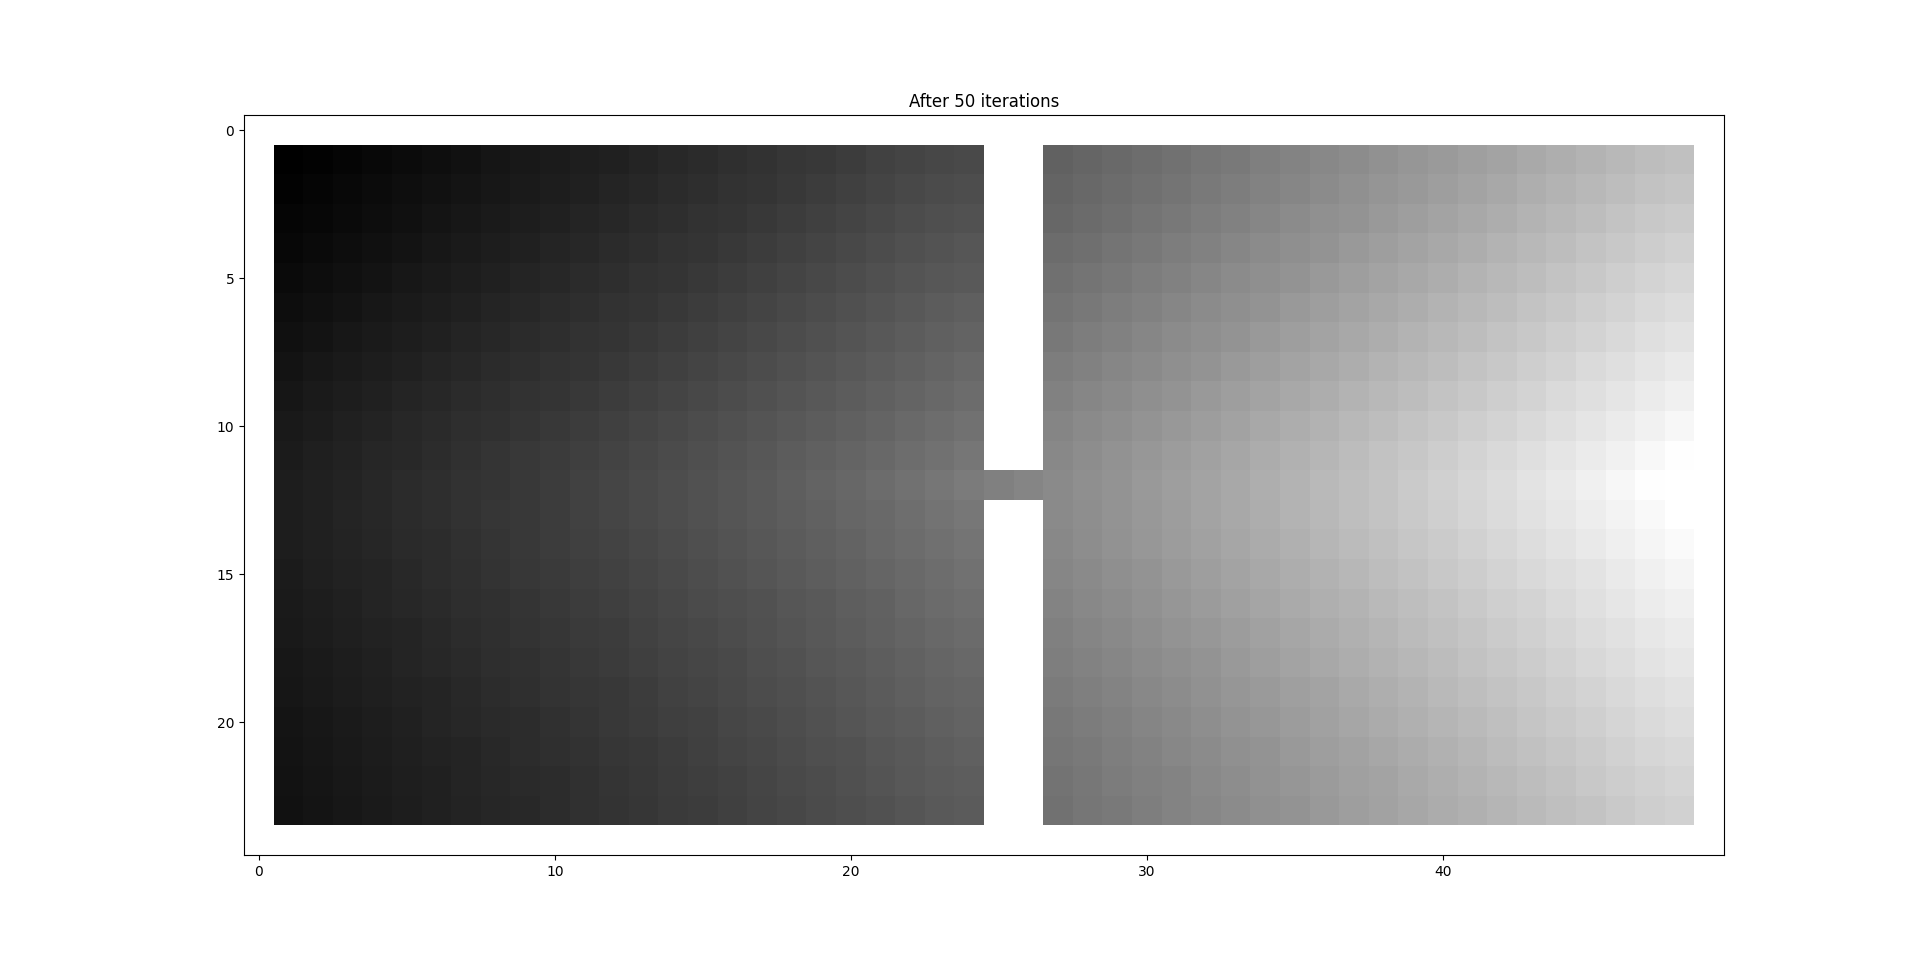
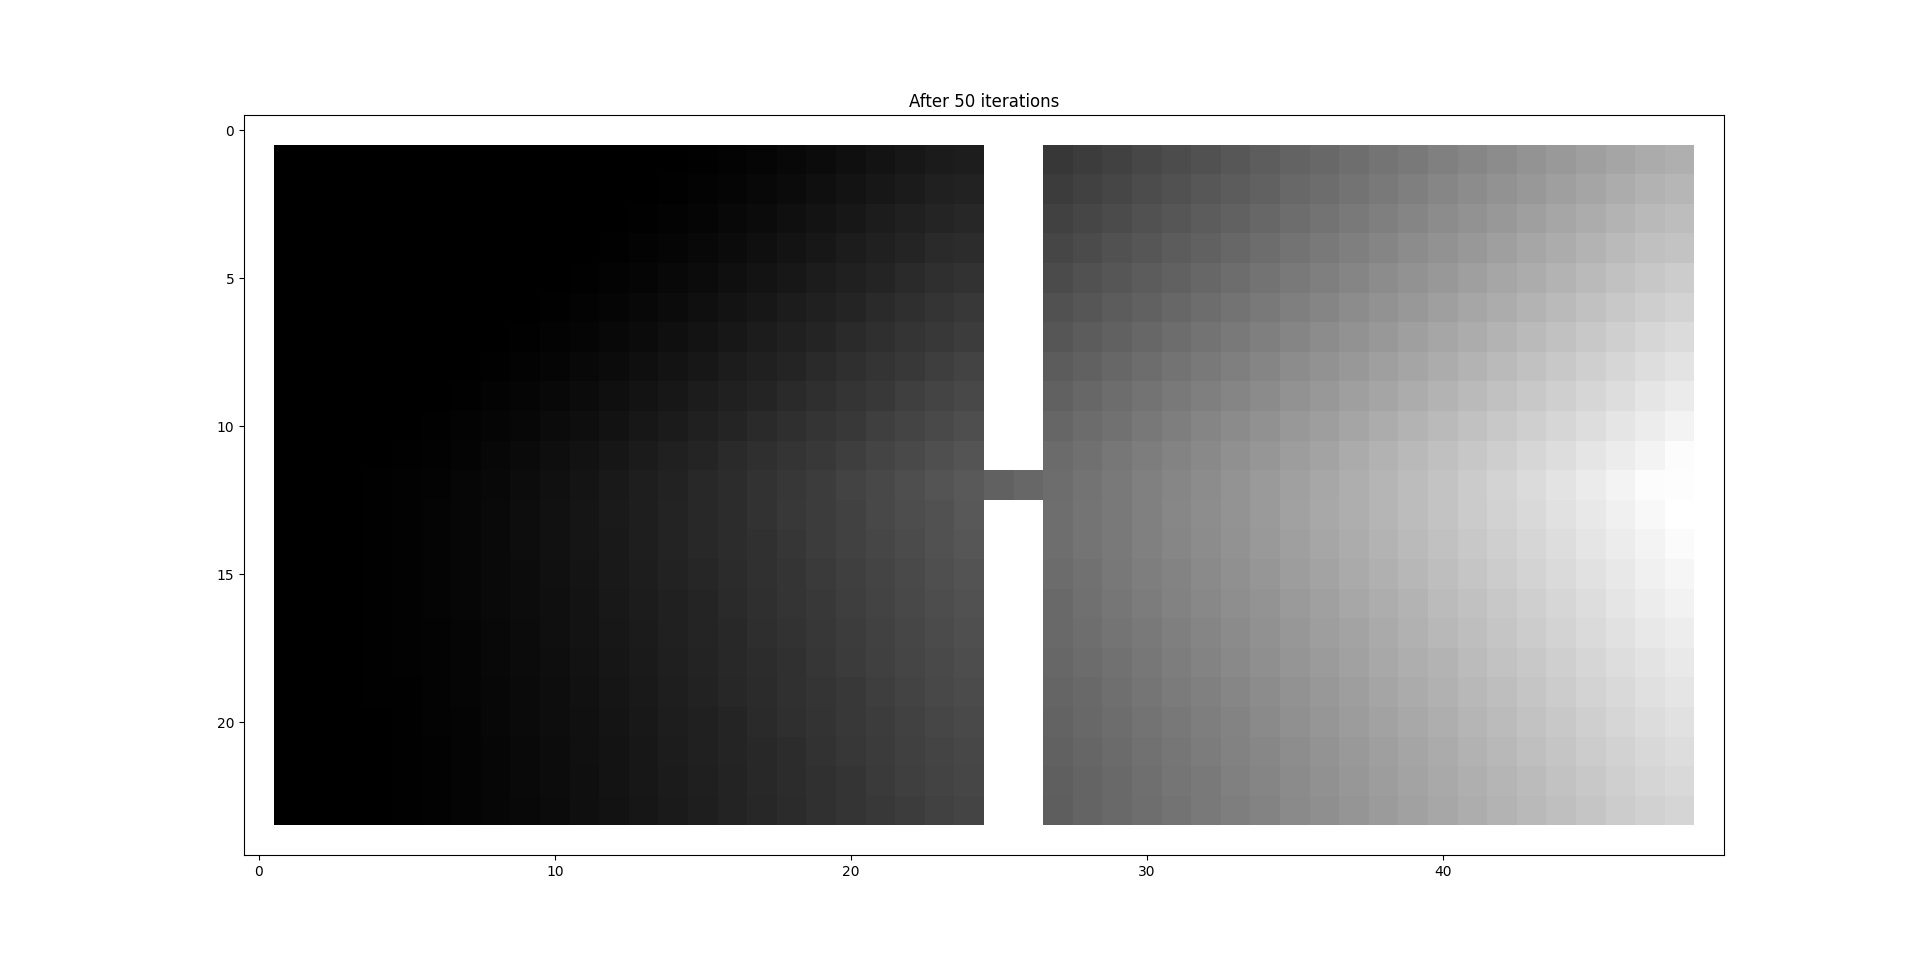
q1 done

Changed region(s): [[0.125, 0.1249, 0.7812, 0.8741]]

diff --git a/Q2_Q_Learning.py b/Q2_Q_Learning.py
@@ -4,10 +4,11 @@ from plotpolicy import plot_policy, plot_policy2
 from simulatepolicy import plot_simulation, simulate_policy
 import argparse
 import matplotlib.pyplot as plt
+import os
+
 from tqdm import tqdm
 
 actions = {0:"north", 1:"south", 2:"east", 3:"west"}
-
 
 
 def Environment_interaction_next_state_reward(s_t, action, goal_state):
@@ -108,16 +109,26 @@ parser.add_argument('-e', '--episodes', help='no of episodes to run', type=int, 
 parser.add_argument('--eps', help='exploring probability', type=float, default=0.05)
 parser.add_argument('-a', '--alpha', help='learning rate', type=float, default=0.25)
 parser.add_argument('-g', '--gamma', help='discount factor', type=float, default=0.99)
+parser.add_argument('-s', '--savefigs', help='save figures', action='store_true')
+parser.add_argument('--silent', help='dont show digures', action='store_true')
+parser.add_argument('-o', '--outdir', help='output directory', default='./pics/q2')
 
 args = parser.parse_args()
 eps = args.eps
 episodes = args.episodes
 alpha = args.alpha
 gamma = args.gamma
+savefig = args.savefigs
+outdir = os.path.abspath(args.outdir)
+plot = not args.silent
+
+print(f'savefigs = {savefig}, outdir={outdir}, plotfigs={plot}')
 
 q_value, reward_history = Q_learning_algorithm(eps, alpha, gamma, (48,12), episodes)
 Policy3 = np.zeros((50,25))
 Value = np.zeros((50, 25))
+
+
 for ki in range(1,49):
     for kj in range(1,24):
         if ki in [25, 26] and kj in range(1, 12) or ki in [25, 26] and kj in range(13, 24):
@@ -126,15 +137,25 @@ for ki in range(1,49):
             Policy3[ki, kj] = np.argmax(np.array([q_value[(ki,kj)][0], q_value[(ki,kj)][1], q_value[(ki,kj)][2], q_value[(ki,kj)][3]]))
             Value[ki, kj] = max(q_value[(ki, kj)][0], q_value[(ki, kj)][1], q_value[(ki, kj)][2], q_value[(ki, kj)][3])
 
-plt.imshow(Value.T)
+plt.imshow(Value.T, cmap='gray')
 plt.title("Value function after {} episodes. [gamma = {}, eps={}, alpha={}]".format(episodes, gamma, eps, alpha))
-plt.show()
+if savefig:
+    plt.savefig(os.path.join(outdir, f"Value_{episodes}_{gamma}_{eps}_{alpha}.png"), dpi=300)
 
-plot_policy2(Policy3.T, Value.T, grid=False, title="Policy plot after {} episodes. [gamma = {}, eps={}, alpha={}]".format(episodes, gamma, eps, alpha))
+if plot:
+    plt.show()
 
+plot_policy2(Policy3.T, Value.T, grid=False, title="Policy plot after {} episodes. [gamma = {}, eps={}, alpha={}]".format(episodes, gamma, eps, alpha), outdir=os.path.join(outdir, f"Policy_{episodes}_{gamma}_{eps}_{alpha}.png"), plot = plot)
+
+plt.cla()
+plt.clf()
 plt.plot(reward_history)
 plt.title("Reward History for {} episodes. [gamma = {}, eps={}, alpha={}]".format(episodes, gamma, eps, alpha))
-plt.show()
+plt.xlim([-100,4000])
+if savefig:
+    plt.savefig(os.path.join(outdir, f"Reward_{episodes}_{gamma}_{eps}_{alpha}.png"), dpi=300)
+if plot:
+    plt.show()
 
 states, actions, rewards = simulate_policy((1, 1), Policy3, iter=2000)
-plot_simulation(states, actions)
+plot_simulation(states, actions, outdir=os.path.join(outdir, f"Sim_{episodes}_{gamma}_{eps}_{alpha}.png"), plot=plot)

diff --git a/plotpolicy.py b/plotpolicy.py
@@ -1,6 +1,7 @@
 import numpy as np
 import matplotlib.pyplot as plt
 import matplotlib.patches as shapes
+import os
 
 actions = {0:"north", 1:"south", 2:"east", 3:"west"}
 orientation_dict = {"north":"down", "south":"up", "east":"right", "west":"left"}
@@ -54,12 +55,42 @@ def plot_policy(P, V, orientation_dict = orientation_dict, overlay=False):
 
     plt.show()
 
-def plot_policy2(P, V, orientation_dict = orientation_dict, grid=False, title='Policy Plot'):
+def plot_visited(v, goal_state=(48, 12), outdir=None, plot=True):
+    _, ax = plt.subplots()
+    v[goal_state] = 0
+    v /= np.max(v)
+    for y in range(25):
+        for x in range(50):
+            #color the walls
+            
+            if(x > 0 and x < 49 and y > 0 and y < 24 and not (x in [25,26] and (y in range(1,12) or y in range(13,24))) and not (x == goal_state[0] and y== goal_state[1]) ):
+                marker = shapes.Rectangle((x, y), width=1, height=1, color=f'{v[x, y]}')
+                ax.add_artist(marker)
+            else:
+                if(x == goal_state[0] and y == goal_state[1]):
+                    marker = shapes.Rectangle((x, y), width=1, height=1, color='red')
+                else:    
+                    marker = shapes.Rectangle((x, y), width=1, height=1, color='blue')
+                ax.add_artist(marker)
+
+    
+    ax.set_xticks(np.arange(0, 50, 1))
+    ax.set_yticks(np.arange(0, 25, 1))
+    ax.set_xlim([0,50])
+    ax.set_ylim([0,25])
+    #ax.grid(b=True, which='major')
+    ax.set_title('Visualization of states visited')
+    if outdir is not None:
+        plt.savefig(outdir, dpi=300)
+    if plot:
+        plt.show()
+
+def plot_policy2(P, V, orientation_dict = orientation_dict, grid=False, title='Policy Plot', outdir=None, plot=True):
     #P - policy, V - value function
     assert P.shape[0] == 25 and P.shape[1] == 50, "Improper input to the function"
     assert P.shape == V.shape, "Improper input to the function"
     _, ax = plt.subplots()
-    ax.imshow(V)
+    ax.imshow(V, cmap='gray')
     for y in range(25):
         for x in range(50):
             #color the walls
@@ -77,9 +108,14 @@ def plot_policy2(P, V, orientation_dict = orientation_dict, grid=False, title='P
     
     ax.set_xticks(np.arange(0, 50, 1))
     ax.set_yticks(np.arange(0, 25, 1))
+    ax.set_xlim([0,50])
+    ax.set_ylim([0,25])
+    
     if(grid):
         ax.grid(b=True, which='major')
     ax.set_title(title)
-
-    plt.show()
+    if outdir is not None:
+        plt.savefig(outdir, dpi=300)
+    if plot:
+        plt.show()
     

diff --git a/Q1_MDP_NEW.py b/Q1_MDP_NEW.py
@@ -1,7 +1,7 @@
 import numpy as np
 import math as mt
 import matplotlib.pyplot as plt 
-from plotpolicy import plot_policy
+from plotpolicy import plot_policy, plot_visited
 from mdputils import Next_state_and_reward
 from simulatepolicy import plot_simulation, simulate_policy
 actions = {0:"north", 1:"south", 2:"east", 3:"west"}
@@ -120,7 +120,7 @@ def Value_iteration(goal_state= (48,12), theta=0.1, gamma=0.1, iterations =10):
             break
         iter = iter + 1
         
-        V_history[iter] = V
+        V_history[iter] = V.copy()
         delta_history.append(delta)
 
         print("Iteration completed.")
@@ -171,14 +171,15 @@ for n in range(N_times):
     states, actions, rewards = simulate_policy((1,1), Policy2, 100)
     for s in states:
         n_visited[s[0], s[1]] += 1
-
+'''
 plt.imshow(n_visited.T, cmap='gray')
 plt.show()
 
 n_visited[48, 12] = 0
 plt.imshow(n_visited.T, cmap='gray')
 plt.show()
-
+'''
+plot_visited(n_visited)
 #now visualizing how max_norm changes over different values of gamma.
 fig, ax = plt.subplots(1, 2)
 Value_of_state, Policy2, V_history, delta_hist, c = Value_iteration((48,12), None, 0.99, 500)
@@ -189,39 +190,3 @@ ax[0].plot(delta_hist, 'b'); ax[1].plot(c, 'b')
 ax[0].set_title("Max_norm over different values of the discount factor: 0.99 and 0.01")
 ax[1].set_title("Changes in the policy over different iterations")
 plt.show()
-
-'''
-
-from PIL import Image
-Image_value = (255 * (Value_of_state - np.min(Value_of_state)) / np.ptp(Value_of_state)).astype(int)
-im = Image.fromarray(Image_value)
-resized_img = im.resize((400, 800))
-resized_img.show()
-resized_img .save('gfg_dummy_pic2.png')
-
-
-Policy2_image = np.zeros((48,23,3), dtype= np.uint8)
-for ki in range(1,49):
-    for kj in range(1,24):
-        if Policy2[ki,kj] == 0:
-            Policy2_image[ki-1, kj-1] = [255, 0,0]
-        elif Policy2[ki,kj] == 1:
-            Policy2_image[ki-1, kj-1] = [0,255, 0]
-        elif Policy2[ki, kj] == 2:
-            Policy2_image[ki - 1, kj - 1] = [0,0,255]
-        elif Policy2[ki,kj] == 0:
-            Policy2_image[ki-1, kj-1] = [255, 255,255]
-img2 = Image.fromarray(Policy2_image, 'RGB')
-resized_img2 = img2.resize((200, 400))
-resized_img2.show()
-resized_img2.save('Policy23.png')
-
-
-with np.printoptions(threshold=np.inf):
-    #print(Policy[1:49, 1:24])
-    print(Policy2[1:49, 1:24])
-
-    print(Value_of_state[1:49, 1:24])
-    print(Value_of_state[48,12])
-
-'''

diff --git a/simulatepolicy.py b/simulatepolicy.py
@@ -22,7 +22,9 @@ def simulate_policy(start_state, P, iter=200):
         x, y = next_state
     return states, actions, rewards
 
-def plot_simulation(states, actions, goal_state=(48, 12)):
+
+
+def plot_simulation(states, actions, goal_state=(48, 12), outdir=None, plot=True):
     _, ax = plt.subplots()
     
     for y in range(25):
@@ -54,9 +56,13 @@ def plot_simulation(states, actions, goal_state=(48, 12)):
     
     ax.set_xticks(np.arange(0, 50, 1))
     ax.set_yticks(np.arange(0, 25, 1))
+    ax.set_xlim([0,50])
+    ax.set_ylim([0,25])
     ax.grid(b=True, which='major')
     ax.set_title('Policy Plot')
-
-    plt.show()
+    if outdir is not None:
+        plt.savefig(outdir, dpi=300)
+    if plot:
+        plt.show()
     
 
